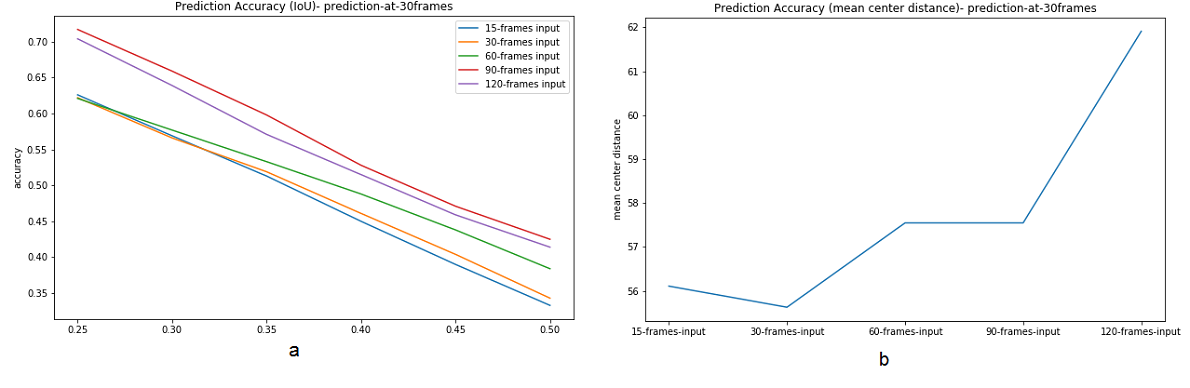
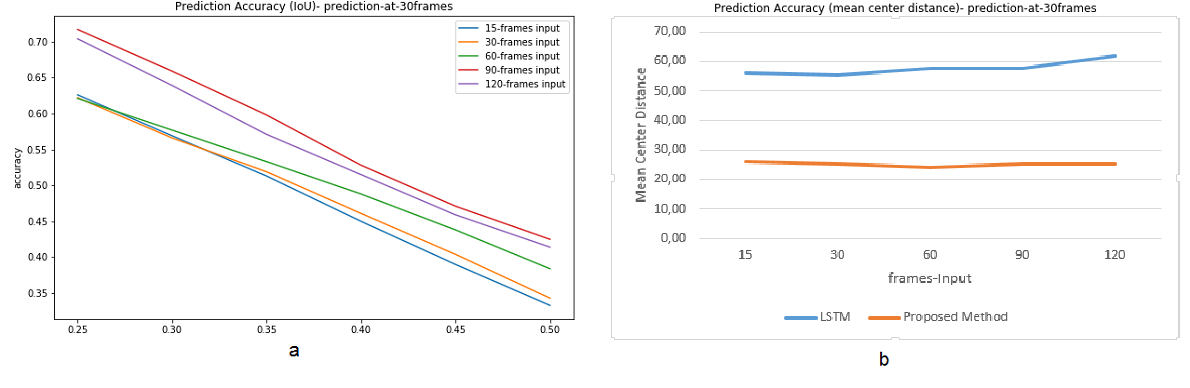
new results

diff --git a/Documents/latex/chap5.tex b/Documents/latex/chap5.tex
@@ -64,7 +64,8 @@ In the above figure \ref{fig:Phase1-15},  (a) depicts the training and validatio
 \end{center}
 \end{figure}
 
-In the above figure \ref{Phase1-accuracy} (a) and (b), depict the (IoU) accuracy and mean\textunderscore distance\textunderscore accuracy respectively for - prediction with 15 frames input.
+In the above figure \ref{Phase1-accuracy} (a) depict the (IoU) accuracy for - prediction with 15 frames input. \\
+In the graph \ref{Phase1-accuracy}(b), the light blue line shows mean\textunderscore distance\textunderscore accuracy using vanilla LSTM implementation and the orange line shows the performance improvement using our proposed novel methodology. Using the our proposed method it is clearly shown that the Mean Center distance is reducing significantly. This phenomenon has been seen for varied numbers of input frames. The result improvement can be attributed to the adaptive refinement of current features of pedestrian and vehicle.
 
 %\begin{figure}[H] 
 %\includegraphics[scale=0.8]{prediction-with-15frames-input_IoU}
@@ -262,7 +263,8 @@ Fig \ref{Phase2-accuracy} (a) and (b) depict the test result (IoU) and mean\text
 
 %\section{LSTM with refinement}
 
-As we can see from the above plots, the validation error is least for '60 frames input and prediction at 30-time step' case. Also prediction accuracy (using IoU) from fig \ref{Phase2-accuracy} (a), with 60 frames as input, the prediction accuracy is better compared to 15 frames and 30 frames as input. It is also noticeable that with an increase in the IoU for considering the prediction as accurate, the accuracy decreases linearly with an increase in IoU threshold value. When considering mean center distance as a measure of performance, the lesser the mean center distance the better is the prediction. From the plot, it is seen that for 30 frames input the prediction is slightly better than the model that takes 60 frames as input.
+As we can see from the above plots, the validation error is least for '60 frames input and prediction at 30-time step' case. Also prediction accuracy (using IoU) from fig \ref{Phase2-accuracy} (a), with 60 frames as input, the prediction accuracy is better compared to 15 frames and 30 frames as input. It is also noticeable that with an increase in the IoU for considering the prediction as accurate, the accuracy decreases linearly with an increase in IoU threshold value. When considering mean center distance as a measure of performance, the lesser the mean center distance the better is the prediction.
+\ref{Phase2-accuracy} (b), the light blue line depicts the result using plain LSTM implementation and orange line shows the results from our LSTM-based proposed model. From the plot, it is seen that for 30 frames input the prediction is slightly better than the model that takes 60 frames as input, using the LSTM model without our proposed novel methodology. For the novel proposed model, with 60 frames input the prediction is better than the other number of input frames, and it is comparatively better than the original LSTM model prediction with 60 frames input.
 
 %---------------------------------------------------------------------
 \subsection{Experiment. Phase 3. Effect of different future time stamp on prediction, with 60 frames as input}

diff --git a/Documents/latex/chap6.tex b/Documents/latex/chap6.tex
@@ -14,16 +14,14 @@ It is also concluded that with an increase in LSTM cell memory capacity the pred
 
 From the prediction run time graph, it is concluded that with the increase in the number of input frames the prediction time increases linearly. Impact due to the change in the number of epochs or the amount of unit in the cell is insignificant.
 
-The LSTM Cell state refinement proposal is made and related mathematical aspect are reviewed and presented in the section \ref{state_refinement}
+The LSTM Cell state refinement proposal is made and related mathematical aspect are reviewed and presented in the section \ref{state_refinement} and results are compared in Chapter 5. Our proposed novel method has shown improved results. 
 
-
-It is seen that the best prediction at 30 frames is done with 90 frames as input instead of 120 frames as input. The reason behind this deviation could be attributed to an insufficient number of long-enough videos. There are 212 videos with more than 120 frames, 175 videos with more than 150 frames in the training set. In total, there are 24 videos with more than 120 frames and 19 videos with more than 150 frames in the testing set. So it can be concluded that for prediction at a particular future time slice, a certain number of prior frames as input performs better than more input frames (than desired) and dependent on data set.
+It is seen that the best prediction at 30 frames is done with 90 frames as input instead of 120 frames as input. The reason behind this deviation could be attributed to an insufficient number of long-enough videos. There are 212 videos with more than 120 frames, 175 videos with more than 150 frames in the training set. In total, there are 24 videos with more than 120 frames and 19 videos with more than 150 frames in the testing set. So it can be concluded that for prediction at a particular future time slice, a certain number of prior frames as input performs better than more input frames (than desired) and dependent on data set. With the proposed method the accuracy performance is seen be to be improved. The mean center distance is greatly reduced which is a clear indication that the predictions are getting more precised.
 
 \newpara
 
 \textbf{Future Work}
 For the future work, further investigation may be done on how resulted proposal can be applied to real-world scenarios because the following concerns are still open: \\
-for the implementation of the SR (state refinement \ref{state_refinement}) module, $\lambda$ should be pre-computed \ref{sf-precompute}. In the proposal for the state refinement, the distance from the camera to the least point which is captured in the image space is considered to be a constant \textit{K}, that constant value can be empirically evaluated.
 
 This work can be extended by focusing on other useful features in the JAAD dataset such as pedestrian behavioral information to improve accuracy and precision.
 

diff --git a/Documents/latex/chap3.tex b/Documents/latex/chap3.tex
@@ -534,7 +534,7 @@ Considering the below representation, a person represented as a bounding box in 
 \begin{figure}[H]
 \begin{align*}
 \begin{tikzpicture}[baseline=-1pt]
-\node[] at (0,0) {\includegraphics[scale=0.8]{Illustration-vehicle-motion}};
+\node[] at (0,0) {\includegraphics[scale=0.8]{Illustration-vehicle-motion2}};
 \end{tikzpicture}&
 \end{align*}
 \begin{center}
